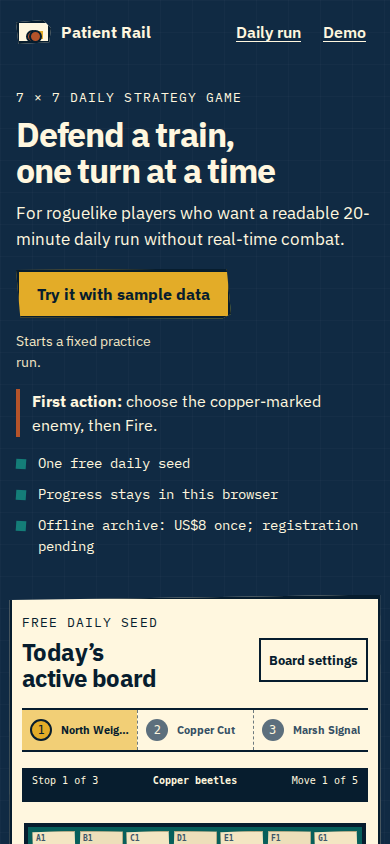
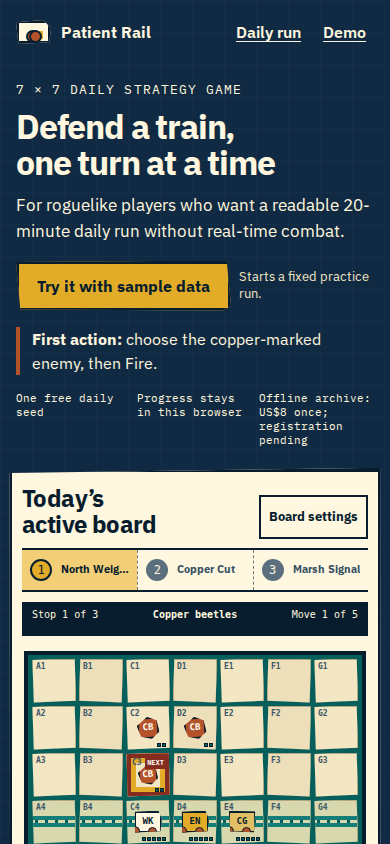
fix: repair release verification findings

diff --git a/src/engine.ts b/src/engine.ts
@@ -120,6 +120,10 @@ const ROUTE_NAMES = [
   'Willow Platform',
 ];
 
+const CAR_KINDS: readonly CarKind[] = ['engine', 'workshop', 'cargo'];
+const FAMILY_IDS: readonly FamilyId[] = ['copper-beetles', 'track-cutters', 'storm-crows'];
+const WEATHER_IDS: readonly WeatherId[] = ['headwind', 'heavy-rain', 'hard-frost'];
+
 function hashString(value: string): number {
   let hash = 2166136261;
   for (let index = 0; index < value.length; index += 1) {
@@ -149,6 +153,12 @@ function shuffled<T>(values: readonly T[], random: () => number): T[] {
   return output;
 }
 
+function permutations<T>(values: readonly T[]): T[][] {
+  if (values.length <= 1) return [Array.from(values)];
+  return values.flatMap((value, index) => permutations(values.filter((_candidate, candidateIndex) => candidateIndex !== index))
+    .map((remaining) => [value, ...remaining]));
+}
+
 export function dailySeed(date = new Date()): string {
   return `PR-${date.toISOString().slice(0, 10)}`;
 }
@@ -166,9 +176,9 @@ export function configForSeed(seed: string): RunConfig {
 
   const random = seededRandom(seed);
   const routes = shuffled(ROUTE_NAMES, random).slice(0, 3) as [string, string, string];
-  const cars = shuffled<CarKind>(['engine', 'workshop', 'cargo'], random) as [CarKind, CarKind, CarKind];
-  const familyPool = shuffled<FamilyId>(['copper-beetles', 'track-cutters', 'storm-crows'], random);
-  const weatherPool = shuffled<WeatherId>(['headwind', 'heavy-rain', 'hard-frost'], random);
+  const cars = shuffled(CAR_KINDS, random) as [CarKind, CarKind, CarKind];
+  const familyPool = shuffled(FAMILY_IDS, random);
+  const weatherPool = shuffled(WEATHER_IDS, random);
   return {
     seed,
     routeNames: routes,
@@ -176,6 +186,26 @@ export function configForSeed(seed: string): RunConfig {
     families: familyPool as [FamilyId, FamilyId, FamilyId],
     weather: weatherPool[0]!,
   };
+}
+
+/**
+ * Dates can change route labels too, but labels never affect a turn. These are
+ * the complete finite set of car, enemy-family and weather configurations a
+ * dated seed can select. Keeping the domain explicit makes the finishability
+ * check a proof over game rules rather than a sample of calendar dates.
+ */
+export function allDatedSeedConfigurations(): RunConfig[] {
+  const carOrders = permutations(CAR_KINDS) as [CarKind, CarKind, CarKind][];
+  const familyOrders = permutations(FAMILY_IDS) as [FamilyId, FamilyId, FamilyId][];
+  const routeNames = ROUTE_NAMES.slice(0, STOP_COUNT) as [string, string, string];
+
+  return carOrders.flatMap((carOrder) => familyOrders.flatMap((families) => WEATHER_IDS.map((weather) => ({
+    seed: `PROOF-${carOrder.join('-')}-${families.join('-')}-${weather}`,
+    routeNames,
+    carOrder,
+    families,
+    weather,
+  }))));
 }
 
 function buildCars(config: RunConfig): Car[] {
@@ -260,8 +290,7 @@ function computeIntent(state: RunState): Intent {
   };
 }
 
-export function createRun(seed: string, now = Date.now()): RunState {
-  const config = configForSeed(seed);
+export function createRunForConfig(config: RunConfig, now = Date.now()): RunState {
   const cars = buildCars(config);
   const state = {
     version: 1 as const,
@@ -281,6 +310,10 @@ export function createRun(seed: string, now = Date.now()): RunState {
   };
   state.intent = computeIntent(state);
   return state;
+}
+
+export function createRun(seed: string, now = Date.now()): RunState {
+  return createRunForConfig(configForSeed(seed), now);
 }
 
 function cloneState(state: RunState): RunState {
@@ -417,12 +450,16 @@ export function isRunState(value: unknown, seed: string): value is RunState {
     && typeof candidate.totalTurns === 'number';
 }
 
-export function playSafeRun(seed: string): RunState {
-  let state = createRun(seed, 0);
+export function playSafeConfiguration(config: RunConfig): RunState {
+  let state = createRunForConfig(config, 0);
   while (state.status === 'playing') {
     const result = applyAction(state, { type: 'fire', enemyId: state.intent.enemyId });
-    if (!result.valid) throw new Error(`Safe action failed for ${seed}: ${result.message}`);
+    if (!result.valid) throw new Error(`Safe action failed for ${config.seed}: ${result.message}`);
     state = result.state;
   }
   return state;
+}
+
+export function playSafeRun(seed: string): RunState {
+  return playSafeConfiguration(configForSeed(seed));
 }

diff --git a/tests/product.spec.ts b/tests/product.spec.ts
@@ -55,8 +55,45 @@ test('phone layout shows job, action, and usable game without body overflow', as
   await expect(page.getByRole('link', { name: 'Try it with sample data' })).toBeVisible();
   const size = await page.evaluate(() => ({ scroll: document.documentElement.scrollWidth, client: document.documentElement.clientWidth }));
   expect(size.scroll).toBe(size.client);
-  const cell = await page.locator('[data-cell]').first().boundingBox();
-  expect(cell?.height).toBeGreaterThanOrEqual(44);
+  const intent = page.locator('[data-cell].is-intent');
+  const viewport = await page.evaluate(() => ({ height: window.innerHeight, scrollY: window.scrollY }));
+  const intentBox = await intent.boundingBox();
+  expect(intentBox?.height).toBeGreaterThanOrEqual(44);
+  expect(intentBox?.y).toBeGreaterThanOrEqual(0);
+  expect((intentBox?.y ?? Infinity) + (intentBox?.height ?? Infinity)).toBeLessThanOrEqual(viewport.height);
+  await intent.click();
+  await expect(page.locator('[data-turn]')).toHaveText('2');
+  expect(await page.evaluate(() => window.scrollY)).toBe(viewport.scrollY);
+});
+
+test('designed 404 loads its same-origin stylesheet under the production CSP', async ({ page }) => {
+  const [htmlResponse, configResponse] = await Promise.all([
+    page.request.get('/404.html'),
+    page.request.get('/staticwebapp.config.json'),
+  ]);
+  expect(htmlResponse.ok()).toBe(true);
+  expect(configResponse.ok()).toBe(true);
+  const html = await htmlResponse.text();
+  const config = await configResponse.json() as { globalHeaders: { 'Content-Security-Policy': string } };
+  const errors: string[] = [];
+  page.on('console', (message) => {
+    if (message.type() === 'error') errors.push(message.text());
+  });
+  await page.route('**/404-csp-check', async (route) => {
+    await route.fulfill({
+      status: 404,
+      contentType: 'text/html',
+      headers: { 'Content-Security-Policy': config.globalHeaders['Content-Security-Policy'] },
+      body: html,
+    });
+  });
+
+  const response = await page.goto('/404-csp-check');
+  await expect(page.locator('.ticket')).toBeVisible();
+  expect(response?.status()).toBe(404);
+  await expect(page.locator('html')).toHaveCSS('background-color', 'rgb(16, 42, 67)');
+  await expect(page.locator('.ticket')).toHaveCSS('background-color', 'rgb(255, 247, 223)');
+  expect(errors.filter((message) => message.includes('Content Security Policy'))).toEqual([]);
 });
 
 for (const path of ['/', '/demo', '/how-to-play', '/archive', '/license', '/privacy', '/terms']) {

diff --git a/src/styles.css b/src/styles.css
@@ -447,16 +447,25 @@ h3 { font-size: 20px; }
   .site-header nav a { padding: 0 8px; }
   .site-header nav a:nth-child(3), .site-header nav a:nth-child(4) { display: none; }
   .demo-banner { position: static; padding: 8px 16px; align-items: start; flex-direction: column; gap: 2px; }
-  .first-screen { padding-top: 16px; gap: 28px; }
+  .first-screen { padding-top: 16px; gap: 20px; }
+  .intro-copy { padding-top: 0; }
   .intro-copy h1 { margin-bottom: 12px; }
   .audience { margin-bottom: 16px; }
-  .plain-facts { margin-top: 16px; }
+  .primary-row { flex-wrap: nowrap; gap: 8px; }
+  .primary-row > span { flex: 1; max-width: none; font-size: 13px; line-height: 1.3; }
+  .plain-facts { margin-top: 10px; display: grid; grid-template-columns: repeat(3, minmax(0, 1fr)); gap: 6px; font-size: 11px; line-height: 1.3; }
+  .plain-facts li { margin: 0; padding-left: 0; }
+  .plain-facts li::before { display: none; }
   .game-card { margin-inline: -8px; padding: 14px 10px 18px; box-shadow: 7px 7px 0 var(--teal); }
   .game-card-heading { align-items: center; }
+  .game-card-heading .eyebrow { display: none; }
+  .game-card-heading h2 { margin-bottom: 10px; }
   .settings-button { padding-inline: 8px; font-size: 13px; }
   .route-progress b { font-size: 11px; }
   .route-progress small { display: none; }
+  .route-progress { margin-bottom: 10px; }
   .stop-strip { gap: 5px; font-size: 10px; }
+  .game-layout { margin-top: 10px; }
   .board-scroll { margin-inline: -3px; }
   .board { min-width: 322px; }
   .board-row { grid-template-columns: repeat(7, minmax(42px, 1fr)); }

diff --git a/tests/claims.spec.ts b/tests/claims.spec.ts
@@ -1,5 +1,5 @@
 import { expect, test } from '@playwright/test';
-import { configForSeed, playSafeRun } from '../src/engine';
+import { allDatedSeedConfigurations, configForSeed, playSafeConfiguration } from '../src/engine';
 
 test('@claim:complete-seeded-run sample reaches a three-stop win', async ({ page }) => {
   await page.goto('/demo');
@@ -27,16 +27,14 @@ test('@claim:loss-restart loss ends and restart restores the opening state', asy
   await expect(page.getByText('5 / 5')).toHaveCount(3);
 });
 
-test('@claim:finishable-seeds 366 dated seeds reach a win', async () => {
-  const start = new Date('2028-01-01T00:00:00Z');
-  for (let offset = 0; offset < 366; offset += 1) {
-    const date = new Date(start);
-    date.setUTCDate(start.getUTCDate() + offset);
-    const seed = `PR-${date.toISOString().slice(0, 10)}`;
-    const result = playSafeRun(seed);
-    expect(result.status, seed).toBe('won');
-    expect(result.totalTurns, seed).toBe(15);
-    expect(result.cars.every((car) => car.hp > 0), seed).toBe(true);
+test('@claim:finishable-seeds every dated-seed game configuration reaches a win', async () => {
+  const configurations = allDatedSeedConfigurations();
+  expect(configurations).toHaveLength(108);
+  for (const config of configurations) {
+    const result = playSafeConfiguration(config);
+    expect(result.status, config.seed).toBe('won');
+    expect(result.totalTurns, config.seed).toBe(15);
+    expect(result.cars.every((car) => car.hp > 0), config.seed).toBe(true);
   }
 });
 

diff --git a/public/404.html b/public/404.html
@@ -5,9 +5,7 @@
   <meta name="viewport" content="width=device-width,initial-scale=1" />
   <title>Page not found — Patient Rail</title>
   <meta name="robots" content="noindex" />
-  <style>
-    :root{font-family:system-ui,sans-serif;color:#071d2e;background:#102a43}*{box-sizing:border-box}body{margin:0;min-height:100vh;display:grid;place-items:center;padding:24px}.ticket{max-width:620px;background:#fff7df;padding:clamp(32px,7vw,72px);border:4px solid #071d2e;box-shadow:14px 14px 0 #147d78;clip-path:polygon(0 0,96% 1%,100% 94%,94% 100%,2% 98%)}p{font-size:18px;line-height:1.5}a{display:inline-flex;min-height:48px;align-items:center;padding:0 20px;background:#e3ac28;color:#071d2e;border:3px solid #071d2e;font-weight:700}a:focus-visible{outline:4px solid #fff7df;outline-offset:4px}
-  </style>
+  <link rel="stylesheet" href="/404.css" />
 </head>
 <body><main class="ticket" id="main"><p>404 · Route not found</p><h1>This page is not on the route</h1><p>The link may be old. Return to today’s train-defense run.</p><a href="/">Open today’s run</a></main></body>
 </html>

diff --git a/src/engine.test.ts b/src/engine.test.ts
@@ -1,5 +1,5 @@
 import { describe, expect, it } from 'vitest';
-import { applyAction, configForSeed, createRun, playSafeRun } from './engine';
+import { allDatedSeedConfigurations, applyAction, configForSeed, createRun, playSafeConfiguration, playSafeRun } from './engine';
 
 describe('deterministic run engine', () => {
   it('builds the same game from the same seed', () => {
@@ -47,5 +47,17 @@ describe('deterministic run engine', () => {
     expect(state.stopIndex).toBe(2);
     expect(state.totalTurns).toBe(15);
     expect(state.cars.every((car) => car.hp > 0)).toBe(true);
+  });
+
+  it('finds a winning route in every possible dated-seed game configuration', () => {
+    const configurations = allDatedSeedConfigurations();
+
+    expect(configurations).toHaveLength(108);
+    for (const config of configurations) {
+      const state = playSafeConfiguration(config);
+      expect(state.status).toBe('won');
+      expect(state.totalTurns).toBe(15);
+      expect(state.cars.every((car) => car.hp > 0)).toBe(true);
+    }
   });
 });

diff --git a/public/404.css b/public/404.css
@@ -1,0 +1,45 @@
+:root {
+  color: #071d2e;
+  background: #102a43;
+  font-family: system-ui, sans-serif;
+}
+
+* { box-sizing: border-box; }
+
+body {
+  min-height: 100vh;
+  margin: 0;
+  padding: 24px;
+  display: grid;
+  place-items: center;
+}
+
+.ticket {
+  max-width: 620px;
+  padding: clamp(32px, 7vw, 72px);
+  background: #fff7df;
+  border: 4px solid #071d2e;
+  box-shadow: 14px 14px 0 #147d78;
+  clip-path: polygon(0 0, 96% 1%, 100% 94%, 94% 100%, 2% 98%);
+}
+
+p {
+  font-size: 18px;
+  line-height: 1.5;
+}
+
+a {
+  min-height: 48px;
+  padding: 0 20px;
+  display: inline-flex;
+  align-items: center;
+  color: #071d2e;
+  background: #e3ac28;
+  border: 3px solid #071d2e;
+  font-weight: 700;
+}
+
+a:focus-visible {
+  outline: 4px solid #fff7df;
+  outline-offset: 4px;
+}

diff --git a/.factory/design.md b/.factory/design.md
@@ -51,4 +51,6 @@ No gameplay rule depends on animation. Buttons press by 1 px and paper layers se
 
 ## Difficulty curve
 
-Each run has three five-turn stops. Stop one teaches firing and bracing with copper beetles. Stop two adds tougher track cutters or storm crows. Stop three applies one visible weather rule. Each turn resolves exactly one announced enemy intent. Firing on the shown enemy provides a safe route through every generated seed. Three Brace tokens can cancel up to two damage when the player chooses another action. The automated finishability check plays 366 dated seeds through a winning end state.
+Each run has three five-turn stops. Stop one teaches firing and bracing with copper beetles. Stop two adds tougher track cutters or storm crows. Stop three applies one visible weather rule. Each turn resolves exactly one announced enemy intent. Firing on the shown enemy provides a safe route through every generated seed. Three Brace tokens can cancel up to two damage when the player chooses another action.
+
+The dated-seed generator can change only three tactical rule groups: one of six car orders, one of six enemy-family orders, and one of three weather rules. Route names vary too, but never affect a turn. The finishability check plays the safe Fire route through all 108 possible tactical configurations and requires a 15-turn win with every car above zero integrity. This proves the safe route for every dated seed instead of sampling calendar dates.

diff --git a/README.md b/README.md
@@ -16,7 +16,7 @@ Sample: <https://patient-rail.sociobot.in/demo>
 - A fixed sample stored separately from daily progress.
 - A win screen, loss screen, and one-action restart.
 
-A full run is 15 turns and is intended to take about 20 minutes when decisions are considered. The automated finishability check plays 366 dated seeds to a win by firing on the shown intent. It does not assert that every possible player choice wins.
+A full run is 15 turns and is intended to take about 20 minutes when decisions are considered. The automated finishability check plays the safe Fire route through all 108 possible tactical configurations. A date selects one of six car orders, six enemy-family orders, and three weather rules. Route names do not affect a turn. It does not assert that every possible player choice wins.
 
 ## Offline archive offer
 
